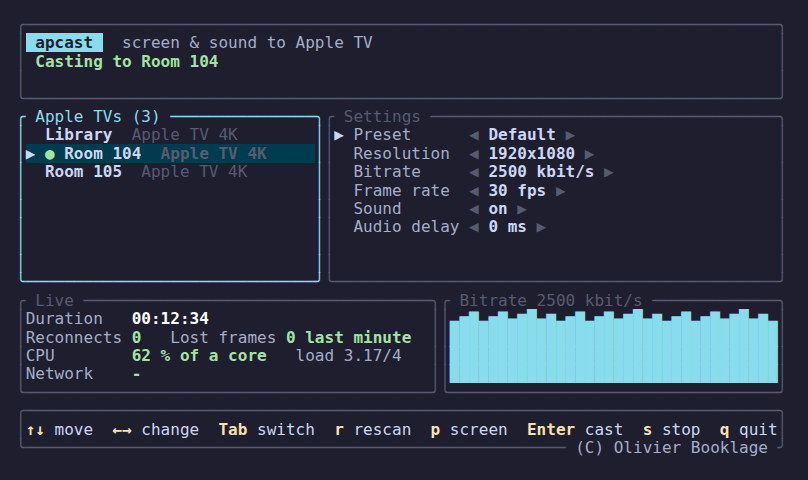
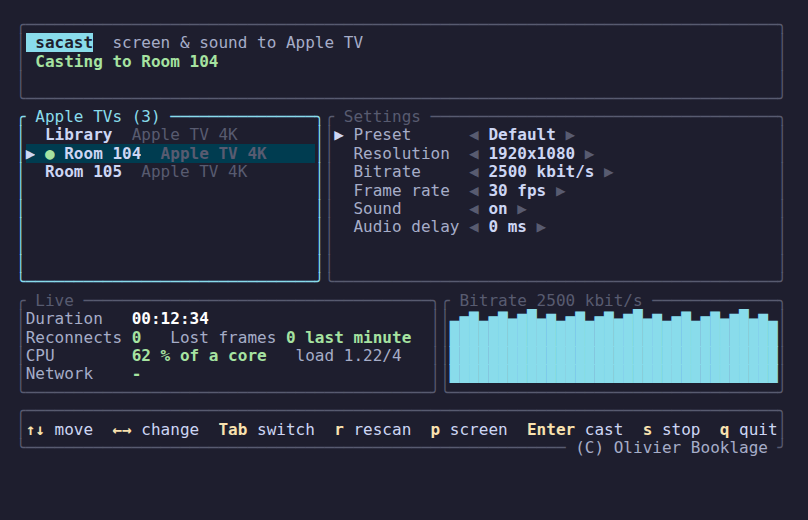
refactor: Rename the project to sacast

Changed region(s): [[0.0, 0.5312, 0.9901, 0.9688], [0.0, 0.1875, 0.9592, 0.5], [0.0309, 0.0312, 0.9592, 0.1562]]

diff --git a/src/main.rs b/src/main.rs
@@ -1,5 +1,5 @@
 //! main.rs
-//! apcast: cast the screen and sound of a Linux Wayland desktop to a screen mirroring receiver.
+//! sacast: cast the screen and sound of a Linux Wayland desktop to a screen mirroring receiver.
 //! This file sets up the log, reads the command line and runs the command:
 //!   capture/ (PC side), device/ (finding receivers), sender/ (the receiver protocol, a stub
 //!   for now), menu/ (terminal interface), session/ (how a cast runs).
@@ -29,7 +29,7 @@ static MENU_LOG: std::sync::OnceLock<std::fs::File> = std::sync::OnceLock::new()
 
 /// Menu log, on the per-user tmpfs (private, cleared at logout).
 fn log_path() -> std::path::PathBuf {
-    std::env::var_os("XDG_RUNTIME_DIR").map_or_else(std::env::temp_dir, Into::into).join("apcast.log")
+    std::env::var_os("XDG_RUNTIME_DIR").map_or_else(std::env::temp_dir, Into::into).join("sacast.log")
 }
 
 fn main() -> anyhow::Result<()> {
@@ -37,7 +37,7 @@ fn main() -> anyhow::Result<()> {
     // so a problem seen in the menu can be read afterwards.
     let verbose = std::env::var_os("RUST_LOG").is_some();
     tracing_subscriber::fmt()
-        .with_env_filter(EnvFilter::try_from_default_env().unwrap_or_else(|_| EnvFilter::new("apcast=info")))
+        .with_env_filter(EnvFilter::try_from_default_env().unwrap_or_else(|_| EnvFilter::new("sacast=info")))
         .with_ansi(false)
         .with_writer(move || -> Box<dyn Write> {
             if let Some(file) = MENU_LOG.get() {
@@ -50,8 +50,8 @@ fn main() -> anyhow::Result<()> {
         })
         .init();
 
-    // `apcast` alone opens the cast menu.
-    let cli = if std::env::args_os().len() == 1 { Cli::parse_from(["apcast", "cast"]) } else { Cli::parse() };
+    // `sacast` alone opens the cast menu.
+    let cli = if std::env::args_os().len() == 1 { Cli::parse_from(["sacast", "cast"]) } else { Cli::parse() };
     match cli.command {
         Command::List { timeout } => {
             let devices = spin(session::SEARCHING, || device::discovery::discover(Duration::from_secs(timeout)))?;

diff --git a/src/capture/portal.rs b/src/capture/portal.rs
@@ -28,7 +28,7 @@ fn runtime() -> &'static Runtime {
 pub struct ScreenCast {
     pub node_id: u32,
     fd: OwnedFd,
-    /// Streams the portal gave; apcast casts the first one.
+    /// Streams the portal gave; sacast casts the first one.
     streams: usize,
     session: Session<Screencast>,
 }
@@ -85,7 +85,7 @@ impl ScreenCast {
 }
 
 /// Close a portal session: ashpd sessions stay open until closed, and the desktop keeps
-/// sharing. At most 2 s: a portal that does not answer must not hang apcast.
+/// sharing. At most 2 s: a portal that does not answer must not hang sacast.
 async fn close<T: ashpd::desktop::SessionPortal>(session: &Session<T>, what: &str) {
     match tokio::time::timeout(std::time::Duration::from_secs(2), session.close()).await {
         Ok(Ok(())) => tracing::info!(what, "portal session closed"),

diff --git a/src/sender/info.rs b/src/sender/info.rs
@@ -1,6 +1,6 @@
 //! info.rs
 //! First exchange with a receiver: `GET /info` returns a binary plist with its name, model,
-//! version, screen and status flags. `apcast info` prints it; a cast logs it.
+//! version, screen and status flags. `sacast info` prints it; a cast logs it.
 //!
 //! Author: O. Booklage
 //! Date: October 2026
@@ -29,7 +29,7 @@ pub struct Info {
     pub screen: Option<(u64, u64)>,
 }
 
-/// Ask the receiver for its info. Returns the whole plist too, for `apcast info --raw`.
+/// Ask the receiver for its info. Returns the whole plist too, for `sacast info --raw`.
 pub fn fetch(rtsp: &mut Rtsp) -> anyhow::Result<(Info, Value)> {
     let body = rtsp.ok("GET", "/info", "", &[])?;
     let plist = Value::from_reader(Cursor::new(body)).context("the info answer is not a plist")?;

diff --git a/src/menu/tests.rs b/src/menu/tests.rs
@@ -87,8 +87,8 @@ fn draws_and_applies_presets() {
     assert!(text.contains("Room 104") && text.contains("Default") && text.contains("Audio delay"));
     assert!(text.contains("00:12:34") && text.contains("Bitrate"));
 
-    // APCAST_SCREENSHOT=file.html cargo test draws: the same screen as a colored page, for media/.
-    if let Ok(path) = std::env::var("APCAST_SCREENSHOT") {
+    // SACAST_SCREENSHOT=file.html cargo test draws: the same screen as a colored page, for media/.
+    if let Ok(path) = std::env::var("SACAST_SCREENSHOT") {
         std::fs::write(path, html(buffer)).unwrap();
     }
 }

diff --git a/src/session/terminal.rs b/src/session/terminal.rs
@@ -50,7 +50,7 @@ pub fn stop_flag() -> anyhow::Result<&'static AtomicBool> {
     static STOP: AtomicBool = AtomicBool::new(false);
     ctrlc::set_handler(|| {
         STOP.store(true, Ordering::SeqCst);
-        // A receiver that stops answering must not keep apcast running.
+        // A receiver that stops answering must not keep sacast running.
         // ponytail: exit skips destructors (the portal session closes with the process), add a timeout per call if that matters.
         std::thread::spawn(|| {
             std::thread::sleep(Duration::from_secs(5));

diff --git a/src/session/menu_loop.rs b/src/session/menu_loop.rs
@@ -35,7 +35,7 @@ pub fn run_menu(mut settings: menu::Settings) -> anyhow::Result<()> {
     // Not restore(): its eprintln! panics when the terminal was closed.
     let _ = ratatui::try_restore();
     run.unwrap_or_else(|panic| {
-        let _ = writeln!(std::io::stderr(), "apcast stopped on an internal error: see {}", crate::log_path().display());
+        let _ = writeln!(std::io::stderr(), "sacast stopped on an internal error: see {}", crate::log_path().display());
         std::panic::resume_unwind(panic)
     })
 }

diff --git a/src/menu/draw.rs b/src/menu/draw.rs
@@ -42,7 +42,7 @@ impl Menu {
 
     fn draw_header(&self, f: &mut Frame, area: ratatui::layout::Rect) {
         let title = Line::from(vec![
-            Span::styled(" apcast ", Style::new().fg(Color::Black).bg(ACCENT).bold()),
+            Span::styled(" sacast", Style::new().fg(Color::Black).bg(ACCENT).bold()),
             Span::raw("  "),
             Span::styled("screen & sound to Apple TV", Style::new().fg(Color::Gray).italic()),
         ]);

diff --git a/src/sender/rtsp.rs b/src/sender/rtsp.rs
@@ -43,7 +43,7 @@ impl Rtsp {
         self.cseq += 1;
         let version = env!("CARGO_PKG_VERSION");
         let mut head = format!(
-            "{method} {path} RTSP/1.0\r\nCSeq: {}\r\nX-Apple-ProtocolVersion: 1\r\nUser-Agent: apcast/{version}\r\n",
+            "{method} {path} RTSP/1.0\r\nCSeq: {}\r\nX-Apple-ProtocolVersion: 1\r\nUser-Agent: sacast/{version}\r\n",
             self.cseq
         );
         if !body.is_empty() {

diff --git a/src/menu/live.rs b/src/menu/live.rs
@@ -28,7 +28,7 @@ pub(super) struct Live {
     pub(super) served: Option<(ByteCounter, Option<(u64, Instant)>)>,
     /// kbit/s, one sample per second, last minute.
     pub(super) bitrate: Vec<u64>,
-    /// apcast's CPU time in clock ticks, and when it was read.
+    /// sacast's CPU time in clock ticks, and when it was read.
     cpu_ticks: Option<(u64, Instant)>,
     /// Percent of one core.
     pub(super) cpu: f64,

diff --git a/src/cli.rs b/src/cli.rs
@@ -10,7 +10,7 @@ use clap::{Args, Parser, Subcommand};
 
 /// Cast the Linux desktop to a screen mirroring receiver.
 #[derive(Parser)]
-#[command(name = "apcast", version, about)]
+#[command(name = "sacast", version, about)]
 pub struct Cli {
     #[command(subcommand)]
     pub command: Command,

diff --git a/src/device/discovery.rs b/src/device/discovery.rs
@@ -1,5 +1,5 @@
 //! discovery.rs
-//! Find the receivers on the local network with mDNS. Used by `apcast list`, by `--device`
+//! Find the receivers on the local network with mDNS. Used by `sacast list`, by `--device`
 //! and by the menu's list.
 //!
 //! Author: O. Booklage

diff --git a/README.md b/README.md
@@ -1,13 +1,13 @@
-# apcast
+# sacast
 
 > [!NOTE]
 > Same family: [sccast](https://github.com/obook/sccast) for Chromecast,
 > [sbcast](https://github.com/obook/sbcast) for interactive panels (screenshare).
 
-`apcast` mirrors a Linux desktop's screen and sound to an Apple TV on the
+`sacast` mirrors a Linux desktop's screen and sound to an Apple TV on the
 local network.
 
-Work in progress. `apcast list` finds the Apple TVs and `apcast info` shows
+Work in progress. `sacast list` finds the Apple TVs and `sacast info` shows
 how each one is set (model, screen, password or PIN asked). Casting is not
 written yet: a cast captures and encodes the screen, then drops the frames.
 See [ROADMAP.md](ROADMAP.md).
@@ -23,15 +23,15 @@ See [ROADMAP.md](ROADMAP.md).
 ## Install
 
 Download the `.deb` for your system from the
-[latest release](https://github.com/obook/apcast/releases/latest):
+[latest release](https://github.com/obook/sacast/releases/latest):
 
-- KDE neon: `apcast_<version>-1.neon_amd64.deb`
-- Ubuntu 26.04: `apcast_<version>-1.ubuntu26.04_amd64.deb`
+- KDE neon: `sacast_<version>-1.neon_amd64.deb`
+- Ubuntu 26.04: `sacast_<version>-1.ubuntu26.04_amd64.deb`
 
 Then:
 
 ```sh
-sudo apt install ./apcast_*_amd64.deb
+sudo apt install ./sacast_*_amd64.deb
 ```
 
 ## Build from source
@@ -51,22 +51,22 @@ gst-inspect-1.0 pipewiresrc pulsesrc x264enc avenc_aac appsink > /dev/null
 cargo build --release
 ```
 
-The binary is `target/release/apcast`. `packaging/build-deb.sh neon` or
+The binary is `target/release/sacast`. `packaging/build-deb.sh neon` or
 `packaging/build-deb.sh ubuntu26.04` builds a `.deb` in Docker.
 
 ## Usage
 
 ```sh
-apcast                          # menu: receivers, presets and settings
-apcast list                     # receivers on the network
-apcast info --device "Room 104" # model, version, screen, password or PIN asked
-apcast cast --device "Room 104" # name or id from `apcast list`
+sacast                          # menu: receivers, presets and settings
+sacast list                     # receivers on the network
+sacast info --device "Room 104" # model, version, screen, password or PIN asked
+sacast cast --device "Room 104" # name or id from `sacast list`
 ```
 
-![The apcast menu during a cast (the sender is not written yet)](media/menu.png)
+![The sacast menu during a cast (the sender is not written yet)](media/menu.png)
 
-Each cast first opens the screen dialog. In a terminal, `apcast` alone, or
-`apcast cast` without `--device`, opens a menu: the Apple TVs appear as they
+Each cast first opens the screen dialog. In a terminal, `sacast` alone, or
+`sacast cast` without `--device`, opens a menu: the Apple TVs appear as they
 answer, and the command line options prefill the settings. Arrows move and change, Tab
 switches columns, Enter casts, `s` stops, `p` chooses another screen and
 moves the running cast to it, `q` or Ctrl+C quits.
@@ -83,8 +83,8 @@ moves the running cast to it, `q` or Ctrl+C quits.
 
 No receiver found: the PC may block mDNS (UDP 5353).
 
-Logs: `RUST_LOG=apcast=debug apcast cast ...`. The menu always writes its
-log to `$XDG_RUNTIME_DIR/apcast.log`, emptied at each start.
+Logs: `RUST_LOG=sacast=debug sacast cast ...`. The menu always writes its
+log to `$XDG_RUNTIME_DIR/sacast.log`, emptied at each start.
 
 ## Author
 
@@ -95,5 +95,5 @@ Olivier Booklage <olivier.booklage@ac-bordeaux.fr>
 MIT, see [LICENSE](LICENSE).
 
 The Rust dependencies use MIT, Apache-2.0, ISC or BSD licenses. At run
-time, `apcast` loads GStreamer (LGPL-2.1 or later) and its `x264enc`
+time, `sacast` loads GStreamer (LGPL-2.1 or later) and its `x264enc`
 plugin, which wraps x264 (GPL-2.0 or later).
